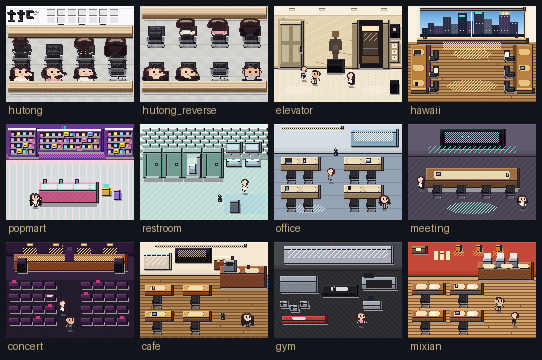
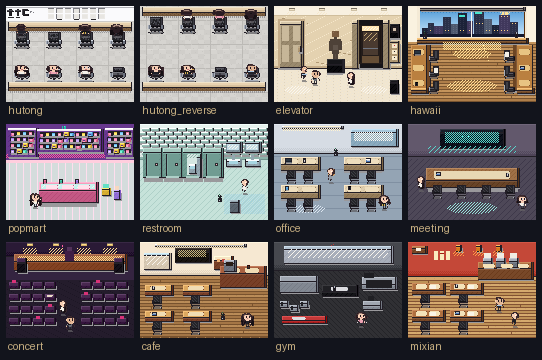
Scale hutong people to 3x and open a walkable aisle.
4x packed the two chair rows together and hid front sitters behind
the near desk. The room is now 640×640 with 3× people and chairs,
seat pitch at 1/4 width, and at least one character-height of aisle
between the chair backs. Seated bodies are drawn in front of the
desk so head, shoulders, and upper torso stay visible.

Changed region(s): [[0.0, 0.0, 0.5018, 0.275]]

diff --git a/public/index.html b/public/index.html
@@ -73,7 +73,7 @@
     }
     .x4 { width: calc(32px * 4); height: auto; }
     .room { width: 384px; max-width: 100%; height: auto; }
-    .room.hutong-lg { width: min(100%, 720px); }
+    .room.hutong-lg { width: min(100%, 640px); }
     .sheet { width: min(100%, 720px); height: auto; }
     .beat {
       display: grid;
@@ -113,9 +113,8 @@
       overflow: hidden;
     }
     #stage-wrap.wide {
-      /* Keep the full 512×480 room on screen; 960px-wide wrap was clipping the near desk. */
       width: min(100%, 640px);
-      aspect-ratio: 512 / 480;
+      aspect-ratio: 640 / 640;
     }
     #stage { width: 100%; height: 100%; image-rendering: pixelated; display: block; }
     #say {
@@ -142,7 +141,7 @@
 <body>
   <header>
     <h1>赛博胡同 Cyber Hutong</h1>
-      <p class="sub">精致像素 v4 · 胡同 512×480 · 其他房 256×192 · 11 房 · 八人 p1–p8 一版 · Online-control / Offline-agent / Behavior-learning · 蒸馏只冷启动 · 无后端</p>
+      <p class="sub">精致像素 v4 · 胡同 640×640 · 其他房 256×192 · 11 房 · 八人 p1–p8 一版 · Online-control / Offline-agent / Behavior-learning · 蒸馏只冷启动 · 无后端</p>
     <nav>
       <a href="#gallery" data-tab="gallery">画廊</a>
       <a href="#day" data-tab="day">一天故事板</a>
@@ -189,7 +188,7 @@
     <div id="walk" class="panel">
       <section>
         <h2>房间漫游</h2>
-        <p class="note">点房间切换。cast_01 走一个往返。胡同画布 512×480（角色整数 4×），其他房 256×192。</p>
+        <p class="note">点房间切换。cast_01 走一个往返。胡同画布 640×640（角色整数 3×），其他房 256×192。</p>
         <div class="chips" id="room-chips"></div>
         <div id="stage-wrap">
           <canvas id="stage" width="256" height="192"></canvas>
@@ -212,11 +211,11 @@
   <script>
     const ROOMS = [
       { id:"hutong", title:"胡同工位区", src:"assets/scenes/hutong/scene_hutong.png",
-        line:"这边还能放杯子。", y:220, t:"09:20", action:"sit_aisle",
-        why:"正打 512×480：白墙立体 ttc + 少而大的灰框。每排一张通长空桌，上排后脑勺，下排正脸。人椅 4×，座距 1/4 房宽。" },
+        line:"这边还能放杯子。", y:304, t:"09:20", action:"sit_aisle",
+        why:"正打 640×640：白墙立体 ttc + 少而大的灰框。每排一张通长空桌，上排后脑勺+肩，下排正脸头肩上身。人椅 3×，座距 1/4 房宽，中间一人高过道。" },
       { id:"hutong_reverse", title:"胡同 · 反打", src:"assets/scenes/hutong_reverse/scene_hutong_reverse.png",
-        line:"从这边看是正脸。", y:200, t:"09:21", action:"look_back", cameraOnly:true,
-        why:"同一房间转 180°，512×480。无墙。原先后脑勺变正脸，正脸变后脑勺，左右对调。" },
+        line:"从这边看是正脸。", y:220, t:"09:21", action:"look_back", cameraOnly:true,
+        why:"同一房间转 180°，640×640。无墙。原先后脑勺变正脸，正脸变后脑勺，左右对调。" },
       { id:"elevator", title:"电梯间", src:"assets/scenes/elevator/scene_elevator.png",
         line:"先等这梯。", y:140, t:"09:12", action:"wait_lift",
         why:"米黄石材、开门、雕塑台座、屏与按钮。" },
@@ -301,7 +300,7 @@
     let cur = 0, x = 56, dir = 1, tick = 0, walking = true;
     const wrap = document.getElementById("stage-wrap");
     function roomScale(room) {
-      return room.id.startsWith("hutong") ? 4 : 1;
+      return room.id.startsWith("hutong") ? 3 : 1;
     }
     function loadBg(src) {
       if (bgCache[src]) return bgCache[src];
@@ -312,8 +311,8 @@
     }
     ROOMS.forEach(w => loadBg(w.src));
     function syncCanvas(bg) {
-      const rw = (bg && bg.naturalWidth) || (roomScale(ROOMS[cur]) > 1 ? 512 : 256);
-      const rh = (bg && bg.naturalHeight) || (roomScale(ROOMS[cur]) > 1 ? 480 : 192);
+      const rw = (bg && bg.naturalWidth) || (roomScale(ROOMS[cur]) > 1 ? 640 : 256);
+      const rh = (bg && bg.naturalHeight) || (roomScale(ROOMS[cur]) > 1 ? 640 : 192);
       if (canvas.width !== rw || canvas.height !== rh) {
         canvas.width = rw;
         canvas.height = rh;
@@ -327,7 +326,7 @@
       const scale = roomScale(ROOMS[i]);
       x = 28 * scale; dir = 1; walking = true;
       say.textContent = ROOMS[i].line;
-      meta.textContent = ROOMS[i].title + " · " + ROOMS[i].src + " · " + (scale > 1 ? "512×480" : "256×192");
+      meta.textContent = ROOMS[i].title + " · " + ROOMS[i].src + " · " + (scale > 1 ? "640×640" : "256×192");
       [...chips.children].forEach((b, j) => b.classList.toggle("on", j === i));
       syncCanvas(bgCache[ROOMS[i].src]);
     }

diff --git a/scripts/generate_rooms.py b/scripts/generate_rooms.py
@@ -1,9 +1,9 @@
 #!/usr/bin/env python3
 """11 Laura-named scenes — 2.5D refined pixel.
 
-Most rooms stay 256×192. Hutong / hutong_reverse are 512×480 (2× width)
-with one continuous long desk per row. People and chairs are 4× so the
-eight seats fill the room (pitch 1/4 of the width).
+Most rooms stay 256×192. Hutong / hutong_reverse are 640×640 with one
+continuous long desk per row. People and chairs are 3×; seat pitch is
+1/4 of the room width, with a walkable aisle between the two chair rows.
 """
 from __future__ import annotations
 
@@ -471,32 +471,31 @@ def office_floor(d, y0, c1, c2, seam):
 
 # ===========================================================================
 # 1. 胡同 — 两台摄像机：正打（白墙 ttc + 镜框）/ 反打 180°（无墙）
-#    每排一张通长浅木桌 × 4 座，桌面全空。512×480（宽 2×，加高给深桌和过道）。
+#    每排一张通长浅木桌 × 4 座，桌面全空。640×640，人椅 3×，中间留过道。
 # ===========================================================================
 # Physical seats, left→right as seen in view 1.
 # n* face the north (top) wall; s* face the south (bottom) edge.
 HUTONG_NORTH = ("cast_02", None, "cast_05", "cast_08")  # face north
 HUTONG_SOUTH = ("cast_01", "cast_03", "cast_04", None)  # face south
 
-HW, HH = 512, 480
-HUTONG_SCALE = 4
-DESK_X, DESK_W, DESK_D, DESK_Z = 8, 496, 36, 22
-# Four station centers — pitch 128 = 1/4 of the 512 room.
-SEATS_X = (64, 192, 320, 448)
-# People 128×160, chairs ~92×116. Overlap sitters with their desk so
-# two 160px rows + wall + desks still fill 480 without a huge empty floor.
-V1_WALL = 100
-V1_TOP_DESK_Y = 100
-V1_TOP_SIT = 150
-V1_TOP_CHAIR_Y = 186
-V1_WALK_Y = 220
-V1_BOT_CHAIR_Y = 278
-V1_BOT_SIT = 296
-V1_BOT_DESK_Y = 374
-V2_TOP_DESK_Y = 6
-V2_TOP_SIT = 56
-V2_TOP_CHAIR_Y = 92
-V2_WALK_Y = 200
+HW, HH = 640, 640
+HUTONG_SCALE = 3
+DESK_X, DESK_W, DESK_D, DESK_Z = 12, 616, 36, 22
+# Four station centers — pitch 160 = 1/4 of the 640 room.
+SEATS_X = (80, 240, 400, 560)
+# People 96×120, chairs ~96×120. Aisle between chair-backs ≥ one person tall.
+V1_WALL = 108
+V1_TOP_DESK_Y = 108
+V1_TOP_SIT = 118
+V1_TOP_CHAIR_Y = 168
+V1_WALK_Y = 304
+V1_BOT_CHAIR_Y = 408
+V1_BOT_SIT = 388
+V1_BOT_DESK_Y = 508
+V2_TOP_DESK_Y = 8
+V2_TOP_SIT = 18
+V2_TOP_CHAIR_Y = 68
+V2_WALK_Y = 220
 
 HUT = {
     "ceil": (252, 252, 254, 255),
@@ -530,7 +529,7 @@ def hutong_cast(cid, view):
 
 
 def hutong_chair_north() -> Image.Image:
-    """Mesh task chair authored at 46×58, then 2× for the 4× cast."""
+    """Mesh task chair authored at 46×58, then 2× (~96×120, matches 3× cast)."""
     img = new(46, 58)
     d = ImageDraw.Draw(img)
     solid_shadow(d, 23, 55, 17, 3)
@@ -727,7 +726,7 @@ def hutong_wall(d, w=HW):
     hline(d, 0, w - 1, V1_WALL - 1, shade(HUT["lip"], -28))
     draw_ttc_large(d, 6, 18)
     # Fewer, ~2× larger grey-framed squares (photo: neat grid, light interiors)
-    size, pitch, col0 = 32, 42, 164
+    size, pitch, col0 = 32, 42, 210
     rows_y = (16, 54)
     cols = 7
     for r, fy in enumerate(rows_y):
@@ -742,14 +741,12 @@ def hutong_wall(d, w=HW):
 def _hutong_row(room, d, desk_y, chair_y, sit_y, who, facing):
     """One continuous desk + 4 chairs. facing 'north' = backs, 'south' = faces.
 
-    Draw order: far furniture first. North row sits behind the desk (desk
-    then chairs then people). South row sits *behind* a near desk, so the
-    slab is painted last and covers laps. Chair first, then person, so
-    sit_back heads rest on the backrest instead of floating above it.
+    Desk first, then chairs, then people — seated bodies are never cropped
+    by the slab. Front-row people sit in front of their desk edge; back-row
+    heads and shoulders read over the chair back.
     """
     north = facing == "north"
-    if north:
-        long_wood_desk(d, DESK_X, desk_y)
+    long_wood_desk(d, DESK_X, desk_y)
     chair = hutong_chair_north() if north else hutong_chair_south()
     view = "sit_back" if north else "sit_front"
     for i, cx in enumerate(SEATS_X):
@@ -758,8 +755,6 @@ def _hutong_row(room, d, desk_y, chair_y, sit_y, who, facing):
         blit(room, chair, chx, chair_y)
         if spr:
             blit(room, spr, cx - spr.size[0] // 2, sit_y)
-    if not north:
-        long_wood_desk(d, DESK_X, desk_y)
 
 
 def scene_hutong() -> Image.Image:
@@ -1427,13 +1422,13 @@ def scene_mixian() -> Image.Image:
 
 SCENES = [
     dict(id="hutong", title="胡同工位区",
-         blurb="正打 512×480：白墙 ttc + 少而大的灰框 · 每排一张通长空桌 · 人椅 4×",
+         blurb="正打 640×640：白墙 ttc + 少而大的灰框 · 每排一张通长空桌 · 人椅 3× · 中间过道",
          fn=scene_hutong, walk_y=V1_WALK_Y, line="这边还能放杯子。",
          beat_t="09:20", action="sit_aisle",
          seats=hutong_seats_view1(),
-         why="摄像机朝北墙。白墙、立体 ttc、少而大的灰框、几块小铭牌、顶角线。每排 4 座共用一张通长浅木桌，桌面全空。人椅 4×，座距 1/4 房宽。上排椅朝北墙看后脑勺，下排椅朝下看正脸。不要电脑/植物/柜/箱/光斑。"),
+         why="摄像机朝北墙。白墙、立体 ttc、少而大的灰框、几块小铭牌、顶角线。每排 4 座共用一张通长浅木桌，桌面全空。人椅 3×，座距 1/4 房宽，两排椅背之间留出一人高过道。上排椅朝北墙看后脑勺+肩，下排正脸头肩上身不被桌子挡住。不要电脑/植物/柜/箱/光斑。"),
     dict(id="hutong_reverse", title="胡同 · 反打",
-         blurb="反打 180° 512×480：无墙 · 同一通长桌 8 座换朝向",
+         blurb="反打 180° 640×640：无墙 · 同一通长桌 8 座换朝向",
          fn=scene_hutong_reverse, walk_y=V2_WALK_Y, line="从这边看是正脸。",
          beat_t="09:21", action="look_back",
          camera_only=True,
@@ -1496,7 +1491,7 @@ def write_scene_md(spec):
     out = ROOT / "design" / "scenes"
     out.mkdir(parents=True, exist_ok=True)
     hutong = spec["id"] in ("hutong", "hutong_reverse")
-    canvas = "512×480" if hutong else "256×192"
+    canvas = f"{HW}×{HH}" if hutong else "256×192"
     (out / f"{spec['id']}.md").write_text(
         f"""# 场景：{spec['title']}（`{spec['id']}`）
 
@@ -1609,9 +1604,27 @@ def patch_manifest(entries):
     print(f"  wrote {man.relative_to(ROOT)}")
 
 
+def _hutong_layout_check():
+    """Aisle between chair-backs must be ≥ one seated character tall."""
+    ch_n = hutong_chair_north()
+    ch_s = hutong_chair_south()
+    person_h = 40 * HUTONG_SCALE
+    top_end = V1_TOP_CHAIR_Y + ch_n.size[1]
+    bot_start = V1_BOT_CHAIR_Y
+    aisle = bot_start - top_end
+    print(f"  hutong layout: canvas {HW}×{HH} scale {HUTONG_SCALE} "
+          f"person {32 * HUTONG_SCALE}×{person_h} "
+          f"chair_n {ch_n.size} chair_s {ch_s.size} "
+          f"aisle {aisle}px (need ≥ {person_h})")
+    if aisle < person_h:
+        raise SystemExit(f"hutong aisle {aisle}px < person height {person_h}px")
+
+
 def main(only=None):
     print("Generating scenes (11 rooms + hutong reverse camera)…")
     targets = [s for s in SCENES if only is None or s["id"] in only]
+    if only is None or (only and "hutong" in only):
+        _hutong_layout_check()
     painted = []
     if only is None:
         for stale in (

diff --git a/README.md b/README.md
@@ -45,8 +45,8 @@ npx --yes serve public -p 4173
 
 | ID | 中文 | 要点 | 路径 |
 |----|------|------|------|
-| `hutong` | 胡同工位区 | 正打 512×480：白墙 ttc + 密框 · 每排一张通长空桌 · 中间 8 椅 | `public/assets/scenes/hutong/` |
-| `hutong_reverse` | 胡同 · 反打 | 同一房间 180° 512×480，无墙，正脸/后脑勺对调 | `public/assets/scenes/hutong_reverse/` |
+| `hutong` | 胡同工位区 | 正打 640×640：白墙 ttc + 少而大的灰框 · 每排一张通长空桌 · 人椅 3× · 中间过道 | `public/assets/scenes/hutong/` |
+| `hutong_reverse` | 胡同 · 反打 | 同一房间 180° 640×640，无墙，正脸/后脑勺对调 | `public/assets/scenes/hutong_reverse/` |
 | `elevator` | 电梯间 | 米黄石材、开门、雕塑台座、屏与按钮 | `public/assets/scenes/elevator/` |
 | `hawaii` | 夏威夷 | 开窗见蓝天高楼 · 左竖桌 3 椅 · 右竖桌 3 椅 · 约六座 | `public/assets/scenes/hawaii/` |
 | `popmart` | 泡泡玛特店 | 细格盲盒墙，柜台留空 | `public/assets/scenes/popmart/` |
@@ -60,7 +60,7 @@ npx --yes serve public -p 4173
 
 已下架（画廊 / 一天 / 漫游均不链）：茶水间、打印区、楼梯过道、天台、老板办公室、快递门口、旧胡同口牌楼。
 
-画布：胡同 **512×480**（宽 2×，加高给深桌和过道），其他房 **256×192**。角色 **32×40** Soul Knight chibi（胡同里 nearest 4×，座距 1/4 房宽）。
+画布：胡同 **640×640**，其他房 **256×192**。角色 **32×40** Soul Knight chibi（胡同里 nearest 3×，座距 1/4 房宽，两排椅背之间留一人高过道）。
 
 ## 八人 cast
 
@@ -86,7 +86,7 @@ cyber-hutong/
 
 ## 技术约定
 
-- 瓦片 32×32，胡同 512×480 / 其他场景 256×192，最近邻放大
+- 瓦片 32×32，胡同 640×640 / 其他场景 256×192，最近邻放大
 - 干净 1px 描边，统一调色，比过夜粗块更细
 - 预览 `image-rendering: pixelated`
 

diff --git a/design/scenes/hutong.md b/design/scenes/hutong.md
@@ -1,14 +1,14 @@
 # 场景：胡同工位区（`hutong`）
 
-> 精致像素 · 512×480 · 2.5D · 桌面留物位
+> 精致像素 · 640×640 · 2.5D · 桌面留物位
 
-正打 512×480：白墙 ttc + 少而大的灰框 · 每排一张通长空桌 · 人椅 4×
+正打 640×640：白墙 ttc + 少而大的灰框 · 每排一张通长空桌 · 人椅 3× · 中间过道
 
-摄像机朝北墙。白墙、立体 ttc、少而大的灰框、几块小铭牌、顶角线。每排 4 座共用一张通长浅木桌，桌面全空。人椅 4×，座距 1/4 房宽。上排椅朝北墙看后脑勺，下排椅朝下看正脸。不要电脑/植物/柜/箱/光斑。
+摄像机朝北墙。白墙、立体 ttc、少而大的灰框、几块小铭牌、顶角线。每排 4 座共用一张通长浅木桌，桌面全空。人椅 3×，座距 1/4 房宽，两排椅背之间留出一人高过道。上排椅朝北墙看后脑勺+肩，下排正脸头肩上身不被桌子挡住。不要电脑/植物/柜/箱/光斑。
 
 - `public/assets/scenes/hutong/scene_hutong.png`
 - `public/preview/zoomed/hutong.png`
-- View 1 `hutong`：白墙 ttc + 少而大的灰框，每排一张通长空桌，n* `sit_back`，s* `sit_front`，`walk_y=220`。
-- View 2 `hutong_reverse`：无墙（所以无牌无框），座位 180° 对调，n* 改 `sit_front`，s* 改 `sit_back`，`walk_y=200`。
+- View 1 `hutong`：白墙 ttc + 少而大的灰框，每排一张通长空桌，n* `sit_back`，s* `sit_front`，`walk_y=304`。
+- View 2 `hutong_reverse`：无墙（所以无牌无框），座位 180° 对调，n* 改 `sit_front`，s* 改 `sit_back`，`walk_y=220`。
 
 不描摹真人，不提交 refs。

diff --git a/design/art-brief.md b/design/art-brief.md
@@ -23,7 +23,7 @@
 
 | 场景 | 地板 | 光 | 硬规则 |
 |------|------|----|--------|
-| 胡同工位区 | 浅灰地 | 正打白墙 ttc/少大灰框 · 反打无墙 | 512×480。两台摄像机。正打：白墙、立体 ttc、少而大的灰框、小铭牌、顶角线；反打 180° 无墙。每排 4 座共用一张通长浅木空桌，人椅 4× 填满房间。不要电脑/植物/柜/箱/光斑。 |
+| 胡同工位区 | 浅灰地 | 正打白墙 ttc/少大灰框 · 反打无墙 | 640×640。两台摄像机。正打：白墙、立体 ttc、少而大的灰框、小铭牌、顶角线；反打 180° 无墙。每排 4 座共用一张通长浅木空桌，人椅 3×，中间一人高过道。不要电脑/植物/柜/箱/光斑。 |
 | 电梯间 | 白石大理石 | 筒灯暖白 | 米黄石材、开门、雕塑、屏与按钮 |
 | 夏威夷 | 暖木 | 开窗日光 | 开窗可见蓝天高楼（像素天际线）。左竖桌内侧 3 椅，右竖桌旁 3 椅，约六座。窗前不摆椅。奶油墙。 |
 | 泡泡玛特 | 粉×薄荷细格 | 粉/青灯带 | 柜台不要堆死 |
@@ -39,8 +39,8 @@
 
 ## 规格
 
-- 场景合成：胡同 **512×480**，其他房 **256×192**
-- 角色帧：32×40（头约占一半身高；胡同 nearest 4×，座距 1/4 房宽）
+- 场景合成：胡同 **640×640**，其他房 **256×192**
+- 角色帧：32×40（头约占一半身高；胡同 nearest 3×，座距 1/4 房宽）
 - 道具：6–16 px 小件（杯 / 本 / 盲盒 / 笔记本）
 
 ## 产品主循环（高于画风，不要只画画）

diff --git a/design/scenes/hutong_reverse.md b/design/scenes/hutong_reverse.md
@@ -1,14 +1,14 @@
 # 场景：胡同 · 反打（`hutong_reverse`）
 
-> 精致像素 · 512×480 · 2.5D · 桌面留物位
+> 精致像素 · 640×640 · 2.5D · 桌面留物位
 
-反打 180° 512×480：无墙 · 同一通长桌 8 座换朝向
+反打 180° 640×640：无墙 · 同一通长桌 8 座换朝向
 
 同一房间摄像机转 180°。无墙、无装饰。原先看后脑勺的一排现在看正脸，原先看正脸的一排现在看后脑勺。左右对调。还是两张通长空桌、8 椅、同一些人。
 
 - `public/assets/scenes/hutong_reverse/scene_hutong_reverse.png`
 - `public/preview/zoomed/hutong_reverse.png`
-- View 1 `hutong`：白墙 ttc + 少而大的灰框，每排一张通长空桌，n* `sit_back`，s* `sit_front`，`walk_y=220`。
-- View 2 `hutong_reverse`：无墙（所以无牌无框），座位 180° 对调，n* 改 `sit_front`，s* 改 `sit_back`，`walk_y=200`。
+- View 1 `hutong`：白墙 ttc + 少而大的灰框，每排一张通长空桌，n* `sit_back`，s* `sit_front`，`walk_y=304`。
+- View 2 `hutong_reverse`：无墙（所以无牌无框），座位 180° 对调，n* 改 `sit_front`，s* 改 `sit_back`，`walk_y=220`。
 
 不描摹真人，不提交 refs。
